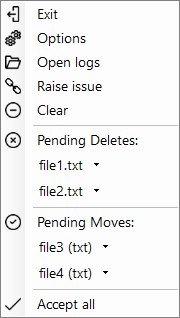
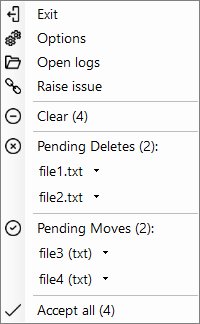
cleanup

diff --git a/src/DiffEngineTray/MenuBuilder.cs b/src/DiffEngineTray/MenuBuilder.cs
@@ -37,7 +37,7 @@ static class MenuBuilder
             .Where(x => x.Text != "Exit" &&
                         x.Text != "Options" &&
                         x.Text != "Open logs" &&
-                        x.Text != "Raise issue" )
+                        x.Text != "Raise issue")
             .ToList();
     }
 
@@ -67,14 +67,23 @@ static class MenuBuilder
             yield break;
         }
 
-        yield return new MenuButton("Clear", tracker.Clear, Images.Clear);
         var deletes = tracker.Deletes
             .OrderBy(x => x.File)
             .ToList();
+
+        var moves = tracker.Moves
+            .OrderBy(x => x.Temp)
+            .ToList();
+        var count = moves.Count + deletes.Count;
+
+        yield return new ToolStripSeparator();
+
+        yield return new MenuButton($"Clear ({count})", tracker.Clear, Images.Clear);
+
         if (deletes.Any())
         {
             yield return new ToolStripSeparator();
-            yield return new MenuButton("Pending Deletes:", tracker.AcceptAllDeletes, Images.Delete);
+            yield return new MenuButton($"Pending Deletes ({deletes.Count}):", tracker.AcceptAllDeletes, Images.Delete);
             foreach (var delete in deletes)
             {
                 var menu = new SplitButton($"{delete.Name}", () => tracker.Accept(delete));
@@ -85,13 +94,10 @@ static class MenuBuilder
             }
         }
 
-        var moves = tracker.Moves
-            .OrderBy(x => x.Temp)
-            .ToList();
         if (moves.Any())
         {
             yield return new ToolStripSeparator();
-            yield return new MenuButton("Pending Moves:", tracker.AcceptAllMoves, Images.Accept);
+            yield return new MenuButton($"Pending Moves ({moves.Count}):", tracker.AcceptAllMoves, Images.Accept);
             foreach (var move in moves)
             {
                 var menu = new SplitButton($"{move.Name} ({move.Extension})", () => tracker.Accept(move));
@@ -104,6 +110,6 @@ static class MenuBuilder
         }
 
         yield return new ToolStripSeparator();
-        yield return new MenuButton("Accept all", tracker.AcceptAll, Images.AcceptAll);
+        yield return new MenuButton($"Accept all ({count})", tracker.AcceptAll, Images.AcceptAll);
     }
 }

diff --git a/src/DiffEngineTray.Tests/VersionReaderTest.cs b/src/DiffEngineTray.Tests/VersionReaderTest.cs
@@ -1,0 +1,18 @@
+using Xunit;
+using Xunit.Abstractions;
+
+public class VersionReaderTest :
+    XunitContextBase
+{
+    [Fact]
+    public void AddSingle()
+    {
+        Assert.NotEmpty(VersionReader.VersionString);
+        Assert.NotNull(VersionReader.VersionString);
+    }
+
+    public VersionReaderTest(ITestOutputHelper output) :
+        base(output)
+    {
+    }
+}
